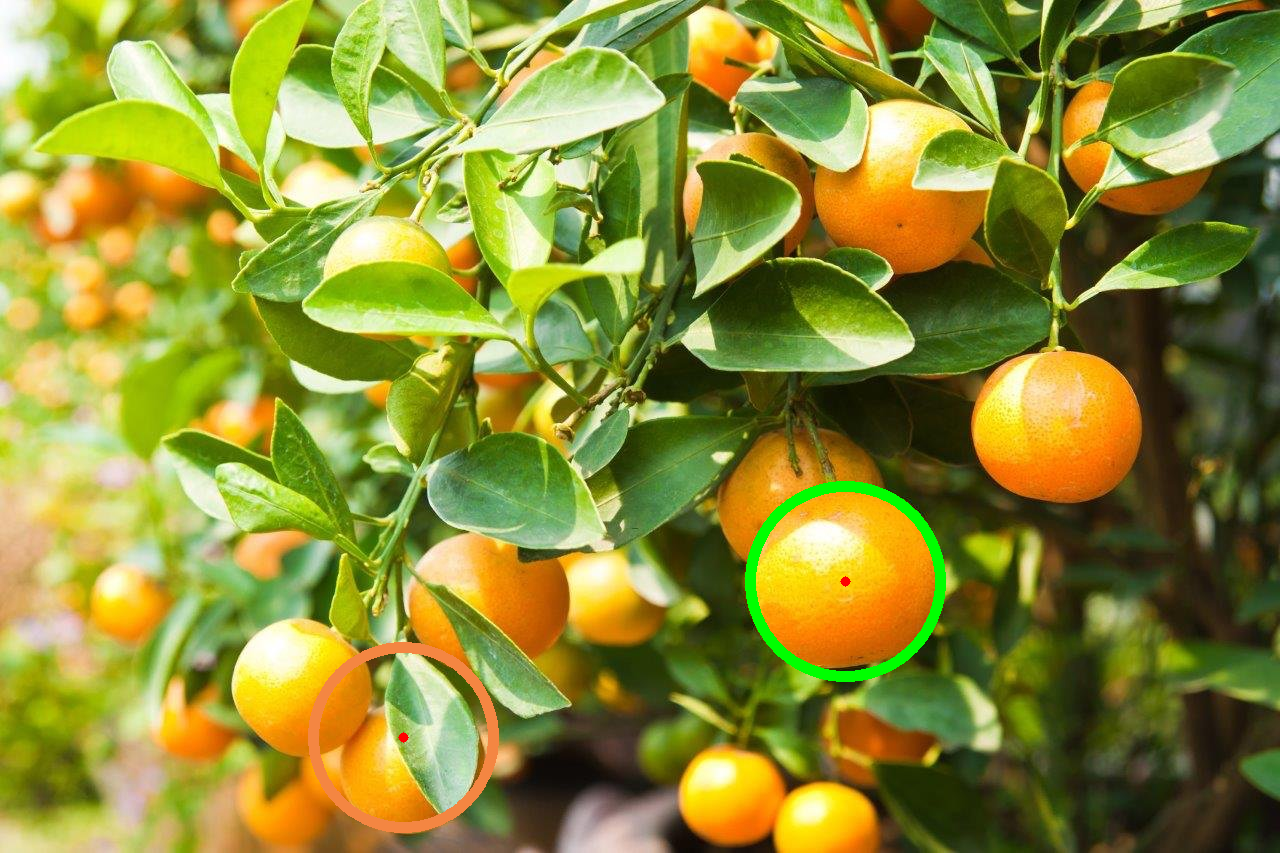
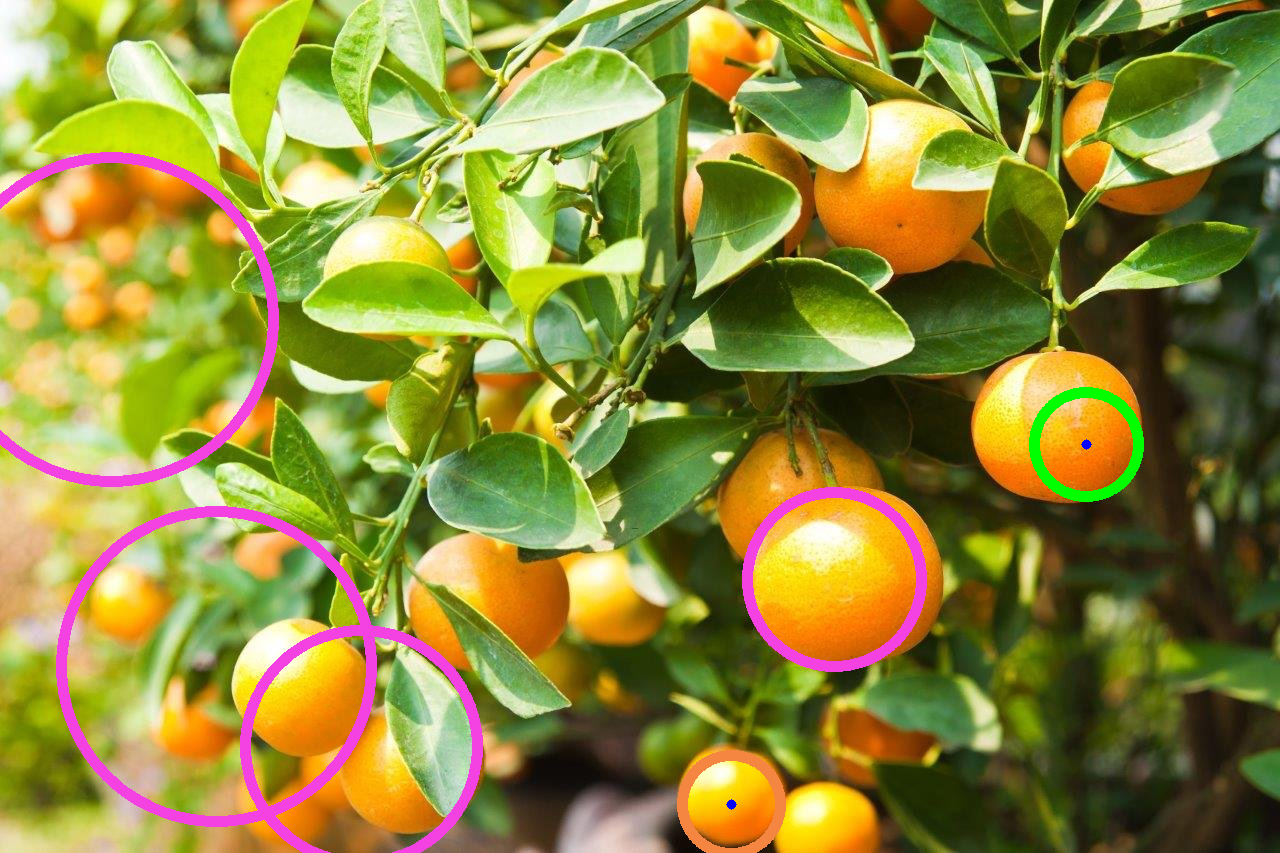
generated all images

diff --git a/circles.py b/circles.py
@@ -265,12 +265,12 @@ if __name__ == '__main__':
 
 
 
-    #circleCount("citrus1")
+    circleCount("citrus1")
     circleCount("citrus2")
-    #circleCount("citrus3")
-    #circleCount("citrus4")
-    #circleCount("citrus5")
-    #circleCount("citrus6")
-    #circleCount("citrus7")
-    #circleCount("citrus8")
-    #circleCount("orange1")
+    circleCount("citrus3")
+    circleCount("citrus4")
+    circleCount("citrus5")
+    circleCount("citrus6")
+    circleCount("citrus7")
+    circleCount("citrus8")
+    circleCount("orange1")
